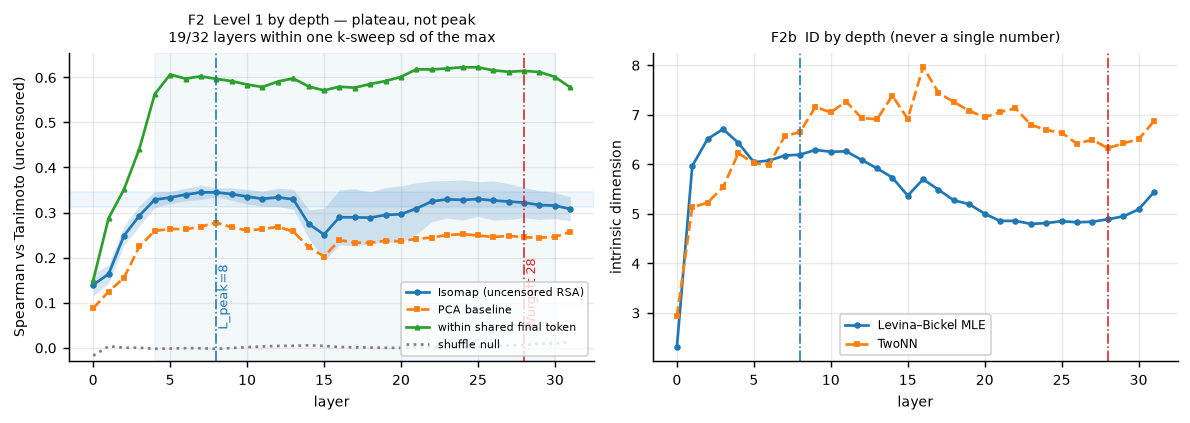
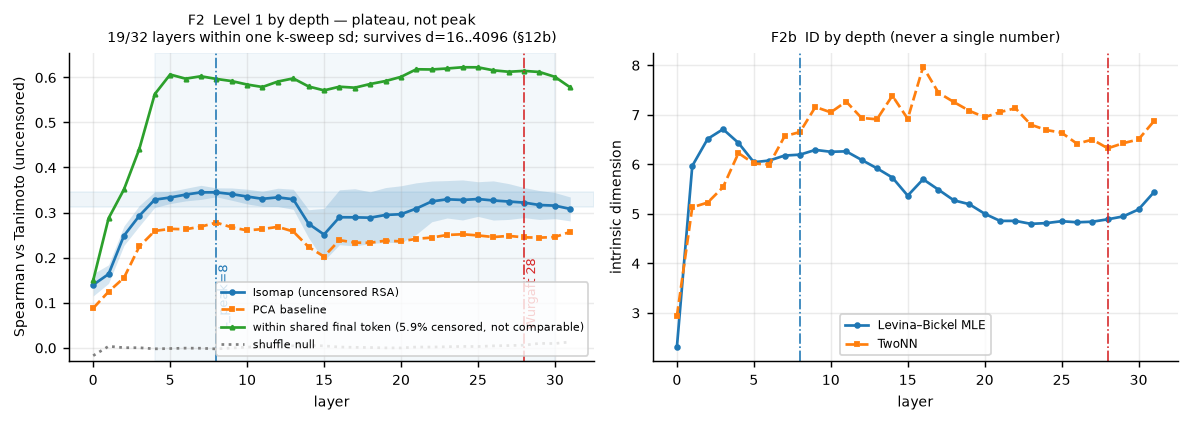
L_peak tie-break, plateau robustness, Level 2 scope restored to pre-registration
Answers four challenges to the §3g result. §12 in SPEC.md.

12a. L_peak is not identified, so the repair is a stable estimator of the SAME
quantity, not a different layer. Tie-break: argmax of MEAN uncensored RSA across
the (fingerprint x k) grid -> layer 8, primary. Layer 28 stays the comparability
arm and is NOT promoted; choosing it for external comparability would be the same
post-hoc move as picking whichever looked better. Disagreement rule pre-declared:
if Level 3 differs between 8 and 28, the finding is layer-sensitive and neither
is the result. And the plateau now makes a prediction -- flat Level 1 over 19
layers should mean flat Level 3; if Level 3 is sharply layer-dependent, the
plateau does not mean what §3g assumed.

12b. Tested whether the plateau is an artifact of the fixed 64-d projection,
since raw ID varies with depth (16.0 at layer 4, 8.1 at layer 28) and a fixed
truncation removes proportionally more from layers carrying more structure.
Reran all 32 layers at d in {16,32,64,128,217,raw 4096}. The flatness survives and
never sharpens: peak-to-plateau range is smallest at high d (0.056 at d=128,
0.079 raw, vs 0.115 at d=64), and the argmax wanders 5/9/23/24/28 with d, which
is further evidence it is not identified. d=217 and raw 4096 agree to three
decimals as they must (lossless rotation at N=218) -- a free check that the
projection path does not distort distances. Figure F2c.
[…]

Changed region(s): [[0.1555, 0.6454, 0.4975, 0.8605], [0.0933, 0.0615, 0.4664, 0.1229]]

diff --git a/scripts/pca_dim_sweep.py b/scripts/pca_dim_sweep.py
@@ -1,0 +1,80 @@
+"""Is the §3g plateau real, or an artifact of a fixed 64-d projection?
+
+The layer profile embeds every layer through PCA-64. Raw ID at layer 8 is ~13 and
+still climbing at N=218, and raw ID varies with depth (16.0 at layer 4, 8.1 at
+layer 28). If raw dimensionality varies across layers, a FIXED 64-d truncation
+removes proportionally more from the layers that carry more structure, which
+would flatten a profile that is not actually flat.
+
+So: rerun Level 1 across depth at several projection dimensions, and on raw
+activations. If flatness survives, §3g is solid. If the profile sharpens as d
+grows, the plateau is partly the instrument.
+
+    python scripts/pca_dim_sweep.py
+"""
+from __future__ import annotations
+import sys
+from pathlib import Path
+sys.path.insert(0, str(Path(__file__).resolve().parent.parent))
+
+import numpy as np
+import pandas as pd
+import torch
+
+import config
+from src import chemistry as C, geometry as G, evaluation as E
+
+K = 12
+
+
+def main():
+    blob = torch.load(config.ACTS / "family1.pt", weights_only=False)
+    acts = blob["acts"].numpy()
+    df = pd.read_csv(config.DATA / "compounds.csv")
+    Dt = C.tanimoto_distance_matrix(df.smiles.tolist())
+
+    rows = []
+    for dim in (16, 32, 64, 128, 217, None):     # None = raw 4096-d
+        for layer in range(config.N_LAYERS):
+            X = np.ascontiguousarray(acts[:, layer, :])
+            if dim is None:
+                Xp = X
+            else:
+                Xp, _ = G.pca_project(X, n_components=dim)
+            ids = G.intrinsic_dimension(Xp)
+            d_hat = G.d_hat_from(ids, "id_mle")
+            _, D_geo, info = G.isomap_embed(Xp, n_components=d_hat, k=K)
+            r = E.rsa_censored(D_geo, Dt)
+            rows.append(dict(pca_dim=(dim if dim else 4096), raw=(dim is None),
+                             layer=layer, d_hat=d_hat, id_mle=ids["id_mle"],
+                             rsa_uncensored=r["rsa_uncensored"],
+                             rsa_all=r["rsa_all"],
+                             connected=info["graph_connected"]))
+        print(f"  dim={dim if dim else 'raw':>4}: done")
+
+    out = pd.DataFrame(rows)
+    out.to_parquet(config.RESULTS / "pca_dim_sweep.parquet", index=False)
+
+    print("\nuncensored RSA by layer and projection dimension")
+    piv = out.pivot_table(index="layer", columns="pca_dim", values="rsa_uncensored")
+    print(piv.loc[[0, 2, 4, 6, 8, 10, 13, 15, 20, 24, 28, 31]].round(3).to_string())
+
+    print("\nprofile shape per projection dimension:")
+    print(f"{'dim':>6} {'argmax':>7} {'max':>7} {'L28':>7} {'min(4-31)':>10} "
+          f"{'peak-to-plateau':>16} {'flat layers':>12}")
+    for dim, g in out.groupby("pca_dim"):
+        g = g.sort_values("layer")
+        mx = g.rsa_uncensored.max(); am = int(g.loc[g.rsa_uncensored.idxmax(), "layer"])
+        l28 = float(g.loc[g.layer == 28, "rsa_uncensored"].iloc[0])
+        tail = g[g.layer >= 4].rsa_uncensored
+        # "flat layers" uses the same yardstick as the main profile: the k-sweep sd.
+        flat = int((tail >= mx - 0.0336).sum())
+        print(f"{dim:>6} {am:>7} {mx:>7.3f} {l28:>7.3f} {tail.min():>10.3f} "
+              f"{mx - tail.min():>16.3f} {flat:>12}")
+
+    print("\nID by projection dimension (mean over layers 4-31):")
+    print(out[out.layer >= 4].groupby("pca_dim")[["id_mle", "d_hat"]].mean().round(2).to_string())
+
+
+if __name__ == "__main__":
+    main()

diff --git a/scripts/figures_stage_a.py b/scripts/figures_stage_a.py
@@ -41,7 +41,7 @@ def main():
     a.plot(prof.layer, prof.rsa, "o-", ms=2.6, color="C0", label="Isomap (uncensored RSA)")
     a.plot(prof.layer, prof.base, "s--", ms=2.4, color="C1", label="PCA baseline")
     a.plot(prof.layer, prof.within, "^-", ms=2.4, color="C2",
-           label="within shared final token")
+           label="within shared final token (5.9% censored, not comparable)")
     a.plot(prof.layer, prof.null, ":", color="0.5", label="shuffle null")
     band = prof.rsa.max() - ksd
     inside = prof.layer[prof.rsa >= band]
@@ -53,8 +53,8 @@ def main():
     a.annotate("Wurgaft 28", (28, .04), fontsize=7, color="C3", rotation=90, va="bottom")
     a.set_xlabel("layer"); a.set_ylabel("Spearman vs Tanimoto (uncensored)")
     a.set_title(f"F2  Level 1 by depth — plateau, not peak\n"
-                f"{int((prof.rsa>=band).sum())}/32 layers within one k-sweep sd of the max",
-                fontsize=8)
+                f"{int((prof.rsa>=band).sum())}/32 layers within one k-sweep sd; "
+                f"survives d=16..4096 (§12b)", fontsize=8)
     a.legend(fontsize=6.3, loc="lower right"); a.set_ylim(-.03, None)
 
     b = ax[1]
@@ -113,7 +113,8 @@ def main():
     a.plot(prof.layer, prof.alc, "o-", ms=2.5, color="C2", label="alcohol, Isomap")
     a.plot(prof.layer, prof.alc_p, "s--", ms=2.3, color="C2", alpha=.5, label="alcohol, PCA")
     a.set_xlabel("layer"); a.set_ylabel("|Spearman| vs carbon count")
-    a.set_title("Level 2 — series recovery.\nPCA baseline matches it.", fontsize=8)
+    a.set_title("Level 2 — series recovery.\nThe PCA baseline matches it: the pipeline\n"
+                "does no work on this task (§12e).", fontsize=8)
     a.legend(fontsize=6); a.set_ylim(0, 1.02)
 
     # Both spaces: the ID of the raw residual stream and of the PCA-64 subspace
@@ -147,5 +148,34 @@ def main():
     print("wrote F1, F2, F7")
 
 
+
+
+def figure_pca_dim_sweep():
+    """§12b: is the plateau an artifact of the fixed 64-d projection?"""
+    d = pd.read_parquet(config.RESULTS / "pca_dim_sweep.parquet")
+    fig, ax = plt.subplots(1, 2, figsize=(8.6, 3.2))
+    for dim, g in d.groupby("pca_dim"):
+        g = g.sort_values("layer")
+        lab = "raw 4096" if dim == 4096 else f"PCA-{dim}"
+        ax[0].plot(g.layer, g.rsa_uncensored, marker="o", ms=2,
+                   lw=1.8 if dim == 64 else 1.0, alpha=1.0 if dim == 64 else .65,
+                   label=lab)
+    ax[0].axvline(8, color="C0", ls="-.", lw=.8); ax[0].axvline(28, color="C3", ls="-.", lw=.8)
+    ax[0].set_xlabel("layer"); ax[0].set_ylabel("uncensored RSA")
+    ax[0].set_title("F2c  the plateau across projection dimension", fontsize=8)
+    ax[0].legend(fontsize=6, ncol=2)
+
+    rng = d[d.layer >= 4].groupby("pca_dim").rsa_uncensored.agg(lambda v: v.max() - v.min())
+    ax[1].plot(rng.index, rng.values, "o-", ms=4)
+    ax[1].set_xscale("log"); ax[1].set_xlabel("projection dimension")
+    ax[1].set_ylabel("peak-to-plateau range (layers 4-31)")
+    ax[1].axvline(64, color="0.6", ls=":", lw=.8)
+    ax[1].set_title("does not sharpen as d grows\n(smallest range at d>=128)", fontsize=8)
+    fig.tight_layout()
+    fig.savefig(config.FIGURES / "F2c_pca_dim_sweep.png", bbox_inches="tight")
+    print("wrote F2c")
+
+
 if __name__ == "__main__":
     main()
+    figure_pca_dim_sweep()

diff --git a/scripts/stage_a_levels.py b/scripts/stage_a_levels.py
@@ -92,6 +92,10 @@ def main():
                     row["n_final_token_groups"] = wg["n_groups"]
                     null = E.shuffle_null_rsa(D_geo, Dt, n_perm=10)
                     row["shuffle_null_rsa"] = null["shuffle_null_rsa"]
+                # Alkene is logged but is NOT part of Level 2 headline reporting:
+                # §5's schema names alkane, alcohol and acid only, so alkene was
+                # our addition. Excluded per §12c -- a restoration of the
+                # pre-registered list, not a bar retrofitted after seeing scores.
                 for s, mask in series_masks.items():
                     row[f"series_spearman_{s}"] = (
                         E.series_recovery(E.series_coordinate(Y, mask), n_carbons[mask])
@@ -109,6 +113,7 @@ def main():
     out.to_parquet(config.RESULTS / "stage_a.parquet", index=False)
     print(f"\nwrote {config.RESULTS/'stage_a.parquet'} ({len(out)} rows)")
 
+    d = out
     m = out[(out.fingerprint_type == "morgan_count")]
     prof = m.groupby("layer").agg(
         rsa_unc=("rsa_uncensored", "mean"), rsa_all=("rsa_spearman", "mean"),
@@ -117,8 +122,19 @@ def main():
         id_mle=("id_mle", "mean"), id_twonn=("id_twonn", "mean"),
         alk=("series_spearman_alkane", "mean"), alc=("series_spearman_alcohol", "mean"),
         null=("shuffle_null_rsa", "mean")).reset_index()
-    peak = int(prof.loc[prof.rsa_unc.idxmax(), "layer"])
-    print(f"\nL_peak (max uncensored RSA, morgan_count) = {peak}")
+    # SPEC §12a tie-break: L_peak is the argmax of MEAN uncensored RSA across the
+    # full (fingerprint x k) grid. The per-(fingerprint, k) argmax is not
+    # identified -- it moves to layer 5, 7, 8, 9, 24, 25 or 26 -- so a single
+    # argmax is not a usable selection rule.
+    grid = (d[d.fingerprint_type == "morgan_count"]
+            .groupby("layer").rsa_uncensored.mean())
+    peak = int(grid.idxmax())
+    ksd = float(m.groupby("layer").rsa_uncensored.std().mean())
+    n_flat = int((grid >= grid.max() - ksd).sum())
+    print(f"\nL_peak (§12a tie-break: argmax of mean uncensored RSA) = {peak}")
+    print(f"  k-sweep sd = {ksd:.4f}; {n_flat}/32 layers within one sd of the max "
+          f"-> plateau, not peak (§12a)")
+    print(f"  layer 28 (comparability arm) = {grid.loc[28]:.4f} vs max {grid.max():.4f}")
     print(prof.to_string(index=False, float_format=lambda v: f"{v:6.3f}"))
     (config.RESULTS / "layer_profile.csv").write_text(prof.to_csv(index=False))
     (config.RESULTS / "L_peak.txt").write_text(str(peak))

diff --git a/SPEC.md b/SPEC.md
@@ -532,10 +532,29 @@ compounds have a final token unique to them. A reader can reasonably ask whether
 recovered structure is *final-token identity* rather than chemistry.
 
 Control: `evaluation.within_group_rsa` recomputes Level 1 restricted to pairs
-sharing a final token. Structure surviving inside the 30-plus-member `Ġacid`
-block cannot be explained by the block label. Reported alongside Level 1; the
-shuffle null does **not** cover this, because permuting compound↔activation
-destroys token structure and chemical structure together.
+sharing a final token. Structure surviving inside the 41-member `Ġacid` block
+cannot be explained by the block label. The shuffle null does **not** cover this,
+because permuting compound↔activation destroys token structure and chemical
+structure together.
+
+**Result: 0.605 within-group against 0.342 overall (layer 8).** The confound is
+cleared — recovered structure is not read-position identity.
+
+**How that number must NOT be read.** It is higher than the headline, and it is
+*not* a better estimate of the same quantity: it is an easier task. Within a
+shared final token the block is chemically homogeneous, so almost nothing is
+censored — **5.9% of within-group pairs sit at distance 1.0 against 32.7%
+overall, and the `Ġacid` block is 0.0% censored** because every pair shares a
+COOH substructure. Nearly the whole within-block matrix is rankable, where a
+third of the full matrix carries no ordering at all.
+
+One tempting explanation is wrong and is recorded so it is not re-proposed: the
+groups are *not* dominated by homologous series (only 26% of their members are in
+any series), and within-group Tanimoto does *not* reduce to carbon-count
+difference (Spearman with |ΔC| is 0.29 in `Ġacid`, 0.20 in `ene`, 0.22 in `ane`,
+and negative in `ine` and `amine`). The gap is censoring, not chain length.
+
+**The Level 1 ceiling therefore remains 0.345 with Procrustes disparity 0.83.**
 
 ### 11d. Intrinsic dimension is a curve, not a scalar (amends §3e step 1)
 
@@ -590,3 +609,118 @@ refusal direction at the selected layer"**, never as "Arditi's direction".
 If their released tensor for `Llama-3.1-8B-Instruct` is a single download, take it
 as a cross-check: the cosine between the two is free validation, and a *low*
 cosine is itself a reportable result.
+
+
+---
+
+## 12. Amendments after the Stage A layer profile — Sat 5 Sep 2026
+
+Recorded after §3d capture and §3g, before Level 3.
+
+### 12a. `L_peak` is not identified; the repair is a tie-break, not a different layer
+
+§3g selects "the layer of peak Level-1 RSA". The sweep shows that quantity is not
+identified in this domain: uncensored RSA rises over layers 0–4 (0.139 → 0.329)
+and then plateaus, **19 of 32 layers sit within one k-sweep sd (0.034) of the
+maximum**, and the argmax moves to layer 5, 7, 8, 9, 24, 25 or 26 depending on
+fingerprint and `k`.
+
+**Tie-break rule (one line, stated before Level 3):** `L_peak` is the argmax of
+*mean* uncensored RSA across the full (fingerprint × k) grid for the default
+count fingerprint. That gives **layer 8**, and it is the primary layer.
+
+Layer 28 remains the comparability arm exactly as §3g requires. It is **not**
+promoted to primary: the pre-registered rule targets a quantity, and the honest
+repair is a stable estimator *of that quantity*, not a different layer chosen for
+external comparability — which would be the same post-hoc move as picking
+whichever number looked better.
+
+**Disagreement rule, pre-declared now:** if Level 3 differs between layer 8 and
+layer 28, the finding is **layer-sensitive and neither is *the* result**. This is
+§9 risk 4 made operational.
+
+**The plateau is a prediction, not just an annoyance.** If Level-1 alignment is
+flat across 19 layers, Level 3 should be flat across them too. If Level 3 instead
+turns out sharply layer-dependent, the plateau does not mean what §3g assumed it
+meant, and that discrepancy is itself the finding.
+
+### 12b. The plateau is not an artifact of the fixed 64-d projection
+
+The profile embeds every layer through PCA-64 while raw ID varies with depth
+(16.0 at layer 4, 12.9 at layer 8, 8.1 at layer 28) and is still climbing at
+N=218. A fixed truncation could flatten a real profile by removing
+proportionally more from the layers carrying more structure. Tested directly —
+Level 1 across all 32 layers at `d ∈ {16, 32, 64, 128, 217, raw 4096}`:
+
+| projection | argmax | max RSA | layer 28 | peak-to-plateau range | layers within one k-sd |
+|---|---|---|---|---|---|
+| 16 | 28 | 0.270 | 0.270 | 0.101 | 15 |
+| 32 | 5 | 0.333 | 0.314 | 0.151 | 13 |
+| **64** | 9 | 0.351 | 0.327 | 0.115 | 20 |
+| 128 | 23 | 0.348 | 0.312 | **0.056** | 19 |
+| 217 | 24 | 0.350 | 0.320 | 0.079 | 18 |
+| raw 4096 | 24 | 0.350 | 0.320 | 0.079 | 18 |
+
+**The flatness survives, and the profile does not sharpen as `d` grows** — the
+peak-to-plateau range is *smallest* at high dimension (0.056 at d=128, 0.079 at
+d=217 and raw, against 0.115 at d=64), and RSA magnitude saturates near 0.35 by
+d=64. The range is not monotone in `d` — it is largest at d=32 (0.151), where
+truncation is severe enough to add its own noise — but at no dimension does a
+peak emerge. So PCA-64 mildly
+*exaggerates* structure relative to the full space rather than manufacturing the
+plateau. The §3g finding stands. The argmax wandering across 5/9/23/24/28 with
+`d` is further evidence it is not identified.
+
+(`d=217` and raw 4096 agree to three decimals, as they must: with N=218 points a
+217-component PCA is a lossless rotation. A free check that the projection path
+is not distorting distances.)
+
+### 12c. Level 2 series scope: the pre-registered list, restored
+
+The §3d gate — "the model must produce the correct name greedily for ≥ 8/10 per
+series, or that series is dropped" — is a **Family-2 greedy-accuracy** gate scoped
+to **Level 3**. Both Level 3 series scored **10/10**, so both pass as written.
+That gate never applied to acids or alkenes, which have no Family-2 template.
+
+The "acid 8/10" figure reported earlier is a *different quantity* — how many acid
+names survived gate 3 — and conflating the two was an error of reporting, not of
+gating.
+
+For Level 2, §5's schema names `series_spearman_alkane`, `_alcohol`, `_acid`.
+**Alkene was never pre-registered**; it was added by us. It is therefore removed
+from Level 2 headline reporting — a restoration, not a new bar retrofitted after
+seeing the scores — and reported here with its number so the exclusion is
+visible, not silent:
+
+| series | pre-registered in §5 | Level 2 abs-rho at layer 8 | status |
+|---|---|---|---|
+| alkane | yes | 0.92 | reported |
+| alcohol | yes | 0.97 | reported |
+| acid | yes | 0.88 | reported |
+| **alkene** | **no** | 0.86 | **excluded** from Level 2; class-membership use only (also §11c: no stable isomeric denotation) |
+
+### 12d. Fractional depth, for the record
+
+Layer 28 is a comparable index here: Wurgaft use Llama 3.1 8B and this project
+uses `Llama-3.1-8B-Instruct`; both have **32 decoder blocks** (asserted at load in
+`src/model.load`), so layer 28 is 0.875 fractional depth in both. Comparability by
+index is therefore sound in this instance. What remains open is §2's base-vs-instruct
+question, which does not affect depth indexing. Had the depths differed, the
+comparison would have had to be made at matched fractional depth, and the case for
+28 would have been weaker still.
+
+### 12e. The Level 2 negative qualifies §0 (amends §0, "Why chemistry")
+
+§0 point 3 justifies chemistry on the grounds that "a naive method fails on it":
+PCA + `atan2` recovers the weekday circle, so passing that test is uninformative.
+**Measured, that justification holds for Level 1 and fails for Level 2.**
+
+- **Level 1**: Isomap 0.345 vs PCA baseline 0.278. The pipeline does work.
+- **Level 2**: Isomap 0.88–0.97 and PCA **0.87–0.96**, with PCA sometimes better
+  (acid at layer 2: 0.93 vs 0.74). Homologous-series ordinal structure is
+  linearly accessible; no manifold method is needed to recover it.
+
+Per §3e Step 3 this belongs in the body, not a footnote: on the ordinal task that
+is the direct analog of Wurgaft's letters/ages recovery, **the naive baseline is
+not beaten**. The unsupervised-pipeline claim rests on Level 1 and Level 3, and
+Level 2 should be presented as a task where pipeline and baseline agree.
